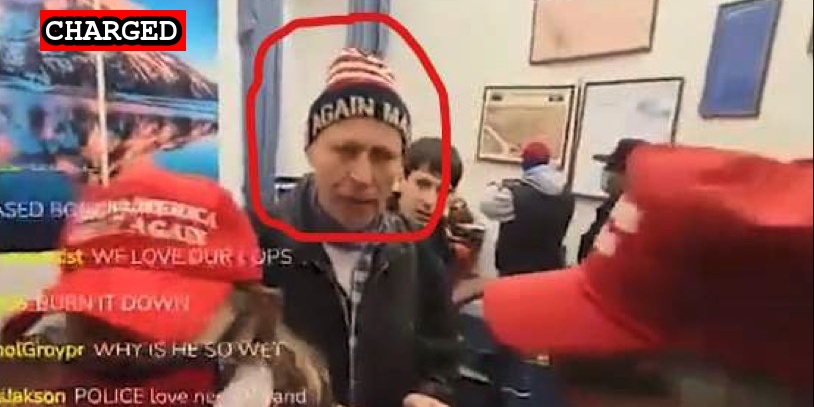
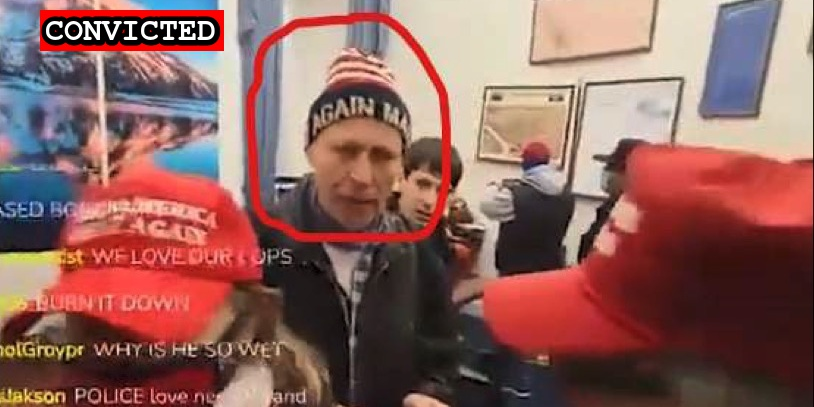
Edwards plea

Changed region(s): [[0.0614, 0.0, 0.2764, 0.1474]]

diff --git a/docs/_suspects/gary-edwards.md b/docs/_suspects/gary-edwards.md
@@ -4,11 +4,11 @@ lastName: Edwards
 hashtag:
 aka:
 residence: Pennsylvania
-status: Charged
+status: Convicted
 date: 2021-04-23
 charged: 2021-04-23
 indicted:
-convicted:
+convicted: 2021-09-27
 sentenced:
 dismissed:
 deceased:
@@ -32,7 +32,12 @@ published: true
 caseNumber:
 videos:
 charges:
+  - code: 18 USC § 5104(e)(2)(G)
+    title: Parading, Demonstrating or Picketing in a Capitol Building
+    url: https://www.law.cornell.edu/uscode/text/40/5104
+    felony: false
 ---
+
 - [News Report](https://6abc.com/capitol-riot-arrest-bucks-county-churchville-gary-edwards/10585377/)
 - [Complaint](https://www.justice.gov/usao-dc/case-multi-defendant/file/1391666/download)
 - [Statement of Facts](https://www.justice.gov/usao-dc/case-multi-defendant/file/1391671/download)
